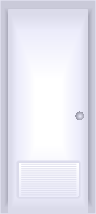
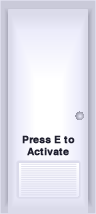
Added levels 4 and 5 (non-tutorial) and more graphics

Changed region(s): [[0.2188, 0.6168, 0.7812, 0.729]]

diff --git a/src/tsa2035/game/content/levels/level1/Level4.java b/src/tsa2035/game/content/levels/level1/Level4.java
@@ -1,0 +1,91 @@
+package tsa2035.game.content.levels.level1;
+
+import java.io.IOException;
+
+import tsa2035.game.content.levels.MainCharacter;
+import tsa2035.game.engine.bounding.Side;
+import tsa2035.game.engine.core.Renderer;
+import tsa2035.game.engine.scene.CollisionCallback;
+import tsa2035.game.engine.scene.InteractionCallback;
+import tsa2035.game.engine.scene.Ladder;
+import tsa2035.game.engine.scene.PolyTexSprite;
+import tsa2035.game.engine.scene.Scene;
+import tsa2035.game.engine.scene.Sprite;
+import tsa2035.game.engine.scene.background.SpriteBackground;
+import tsa2035.game.engine.texture.LoopedAnimatedTexture;
+import tsa2035.game.engine.texture.TextureManager;
+
+public class Level4 extends Scene {
+	
+	public Level4()
+	{
+		try {
+			setBackground(new SpriteBackground(TextureManager.getTextureFromResource("/tsa2035/game/content/images/common/wallpanels.png")));
+			addToScene("character", new MainCharacter(0.28f, -0.5f)).setLayer(10);
+			addToScene("floor", new Sprite(0f, -0.98f, TextureManager.getTextureFromResource("/tsa2035/game/content/images/common/floor.png"))).setSolid(true);
+			addToScene("pipes", new Sprite(0f, 0.89f, TextureManager.getTextureFromResource("/tsa2035/game/content/images/common/pipes.png"))).setSolid(true).setLayer(0);
+			addToScene("vents", new Sprite(0f, 0.7f, TextureManager.getTextureFromResource("/tsa2035/game/content/images/common/vents.png"))).setLayer(-1);
+			addToScene("door", new Sprite(0.75f, -0.58f, TextureManager.getTextureFromResource("/tsa2035/game/content/images/common/door.png"))).setLayer(-2).setInteractable(true);
+
+			addToScene("platform", new Sprite(-0.78f, -0.34f, TextureManager.getTextureFromResource("/tsa2035/game/content/images/common/platform150.png"))).setSolid(true);
+			addToScene("ladder2", new Ladder(-0.69f, -0.64f, TextureManager.getTextureFromResource("/tsa2035/game/content/images/common/ladder_medium.png"), "character", "platform")).setInteractable(true);
+			addToScene("ladder1", new Ladder(-0.87f, -0.13f, TextureManager.getTextureFromResource("/tsa2035/game/content/images/common/ladder_short.png"), "character")).setInteractable(true);
+			addToScene("statuspanel", new Sprite(-0.87f, 0.5f, new LoopedAnimatedTexture("/tsa2035/game/content/images/common", "statuspanel", 2, 2))).setScale(0.5f);
+			addToScene("authorzied", new Sprite(0.75f, -0.1f, TextureManager.getTextureFromResource("/tsa2035/game/content/images/common/authorized.png"))).setScale(0.7f);
+			addToScene("crate1", new Sprite(-0.2f, -0.85f, TextureManager.getTextureFromResource("/tsa2035/game/content/images/common/crate.png"))).setScale(0.5f).setSolid(true).setLayer(5);
+			addToScene("crate2", new Sprite(0f, -0.85f, TextureManager.getTextureFromResource("/tsa2035/game/content/images/common/crate.png"))).setScale(0.5f).setSolid(true).setLayer(5);
+			addToScene("crate3", new Sprite(-0.01f, -0.645f, TextureManager.getTextureFromResource("/tsa2035/game/content/images/common/crate.png"))).setScale(0.5f).setSolid(true).setLayer(5);
+			addToScene("crate4", new Sprite(-0.18f, -0.645f, TextureManager.getTextureFromResource("/tsa2035/game/content/images/common/crate.png"))).setScale(0.5f).setSolid(true).setLayer(5);
+			addToScene("crate5", new Sprite(-0.1f, -0.43f, TextureManager.getTextureFromResource("/tsa2035/game/content/images/common/crate.png"))).setScale(0.5f).setSolid(true).setLayer(5);
+			addToScene("gosign", new Sprite(-0.1f, 0.3f, TextureManager.getTextureFromResource("/tsa2035/game/content/images/common/go.png"))).setScale(0.8f);
+			addToScene("divider", new Sprite(0.45f, 0.1f, TextureManager.getTextureFromResource("/tsa2035/game/content/images/common/divider.png"))).setScale(0.8f);
+
+			
+			final PolyTexSprite gen1box = new PolyTexSprite(-0.2f,-0.4f, "closed", TextureManager.getTextureFromResource("/tsa2035/game/content/images/common/accessdoor_all_closed.png"), false);
+			addToScene("gen1box", gen1box).setScale(0.5f).setInteractable(true);
+			gen1box.addTexture("open", TextureManager.getTextureFromResource("/tsa2035/game/content/images/common/accessdoor_genbank1_open.png"));
+			gen1box.registerInteractionCallback(new InteractionCallback(){
+			@Override
+			public void interactionOccured(Sprite interacter,
+			Sprite interactee) 
+			{
+			gen1box.setTexture("open");}});
+			
+			final PolyTexSprite gen2box = new PolyTexSprite(0.2f,-0.4f, "closed", TextureManager.getTextureFromResource("/tsa2035/game/content/images/common/accessdoor_all_closed.png"), false);
+			addToScene("gen2box", gen2box).setScale(0.5f).setInteractable(true);
+			gen2box.addTexture("open", TextureManager.getTextureFromResource("/tsa2035/game/content/images/common/accessdoor_genbank2_open.png"));
+			gen2box.registerInteractionCallback(new InteractionCallback(){
+			@Override
+			public void interactionOccured(Sprite interacter,
+			Sprite interactee) 
+			{
+			gen2box.setTexture("open");}});
+			
+			getObject("door").registerInteractionCallback(new InteractionCallback()
+			{
+
+				@Override
+				public void interactionOccured(Sprite registeredObject,
+						Sprite withObject) {
+					Renderer.animatedSceneSwitch(new Level5());
+					
+				}
+				
+			});
+			
+	//Need to make gate animated when switch turned to on position (files located in game.content.images.gate)
+			addToScene("gate", new Sprite(0.45f, -0.68f, TextureManager.getTextureFromResource("/tsa2035/game/content/images/gate/gate0001.png"))).setSolid(true);
+			
+		} catch (IOException e) {
+			System.out.println("Texture loading failed!");
+			e.printStackTrace();
+		}
+	}
+	
+	@Override
+	public void sceneLogic() {
+		// This function is called every render loop
+		// Note: callbacks are the prefered way to do collision/interaction checking, not polling
+	}
+
+}

diff --git a/src/tsa2035/game/content/levels/level1/Level5.java b/src/tsa2035/game/content/levels/level1/Level5.java
@@ -1,0 +1,74 @@
+package tsa2035.game.content.levels.level1;
+
+import java.io.IOException;
+
+import tsa2035.game.content.levels.MainCharacter;
+import tsa2035.game.engine.bounding.Side;
+import tsa2035.game.engine.core.Renderer;
+import tsa2035.game.engine.scene.CollisionCallback;
+import tsa2035.game.engine.scene.InteractionCallback;
+import tsa2035.game.engine.scene.Ladder;
+import tsa2035.game.engine.scene.PolyTexSprite;
+import tsa2035.game.engine.scene.Scene;
+import tsa2035.game.engine.scene.Sprite;
+import tsa2035.game.engine.scene.background.SpriteBackground;
+import tsa2035.game.engine.texture.LoopedAnimatedTexture;
+import tsa2035.game.engine.texture.TextureManager;
+
+public class Level5 extends Scene {
+	
+	public Level5()
+	{
+		try {
+			setBackground(new SpriteBackground(TextureManager.getTextureFromResource("/tsa2035/game/content/images/common/wallpanels.png")));
+			addToScene("character", new MainCharacter(-0.45f, -0.6f)).setLayer(10);
+			addToScene("floor", new Sprite(0f, -0.98f, TextureManager.getTextureFromResource("/tsa2035/game/content/images/common/floor.png"))).setSolid(true);
+			addToScene("pipes", new Sprite(0f, 0.89f, TextureManager.getTextureFromResource("/tsa2035/game/content/images/common/pipes.png"))).setSolid(true).setLayer(0);
+			addToScene("vents", new Sprite(0f, 0.7f, TextureManager.getTextureFromResource("/tsa2035/game/content/images/common/vents.png"))).setLayer(-1);
+			addToScene("door", new Sprite(0.75f, -0.58f, TextureManager.getTextureFromResource("/tsa2035/game/content/images/common/door.png"))).setLayer(-2).setInteractable(true);
+			
+			addToScene("gosign", new Sprite(-0.1f, -0.5f, TextureManager.getTextureFromResource("/tsa2035/game/content/images/common/go.png"))).setScale(0.8f);
+			addToScene("platform1", new Sprite(-0.64f, 0f, TextureManager.getTextureFromResource("/tsa2035/game/content/images/common/platform250.png"))).setSolid(true);
+			addToScene("ladder1", new Ladder(-0.85f, -0.46f, TextureManager.getTextureFromResource("/tsa2035/game/content/images/common/ladder_long.png"), "character", "platform1")).setInteractable(true);
+			addToScene("ladder3", new Ladder(-0.4f, -0.02f, TextureManager.getTextureFromResource("/tsa2035/game/content/images/common/ladder_short.png"), "character", "platform1")).setInteractable(true);
+			addToScene("platform2", new Sprite(0.01f, -0.23f, TextureManager.getTextureFromResource("/tsa2035/game/content/images/common/platform400.png"))).setSolid(true).setLayer(-10);
+			addToScene("ladder2", new Ladder(0.42f, -0.02f, TextureManager.getTextureFromResource("/tsa2035/game/content/images/common/ladder_short.png"), "character", "platform3")).setInteractable(true);
+			addToScene("platform3", new Sprite(0.725f, 0.15f, TextureManager.getTextureFromResource("/tsa2035/game/content/images/common/platform300.png"))).setSolid(true).setLayer(-10);
+
+			final PolyTexSprite switchbox = new PolyTexSprite(0.93f, 0.4f, "off", TextureManager.getTextureFromResource("/tsa2035/game/content/images/common/switch_off.png"), false);
+			addToScene("switch", switchbox).setScale(0.5f).setInteractable(true);
+			switchbox.addTexture("on", TextureManager.getTextureFromResource("/tsa2035/game/content/images/common/switch_on.png"));
+			switchbox.registerInteractionCallback(new InteractionCallback(){
+			@Override
+			public void interactionOccured(Sprite interacter,
+			Sprite interactee) 
+			{
+			switchbox.setTexture("on");}});
+			
+			addToScene("gate", new Sprite(0.3f, -0.68f, TextureManager.getTextureFromResource("/tsa2035/game/content/images/gate/gate0001.png"))).setSolid(true);
+			
+			getObject("door").registerInteractionCallback(new InteractionCallback()
+			{
+
+				@Override
+				public void interactionOccured(Sprite registeredObject,
+						Sprite withObject) {
+					Renderer.animatedSceneSwitch(new Level6());
+					
+				}
+				
+			});
+			
+		} catch (IOException e) {
+			System.out.println("Texture loading failed!");
+			e.printStackTrace();
+		}
+	}
+	
+	@Override
+	public void sceneLogic() {
+		// This function is called every render loop
+		// Note: callbacks are the prefered way to do collision/interaction checking, not polling
+	}
+
+}

diff --git a/src/tsa2035/game/content/levels/level1/Level6.java b/src/tsa2035/game/content/levels/level1/Level6.java
@@ -1,0 +1,68 @@
+package tsa2035.game.content.levels.level1;
+
+import java.io.IOException;
+
+import tsa2035.game.content.levels.MainCharacter;
+import tsa2035.game.engine.bounding.Side;
+import tsa2035.game.engine.core.Renderer;
+import tsa2035.game.engine.scene.CollisionCallback;
+import tsa2035.game.engine.scene.InteractionCallback;
+import tsa2035.game.engine.scene.Ladder;
+import tsa2035.game.engine.scene.PolyTexSprite;
+import tsa2035.game.engine.scene.Scene;
+import tsa2035.game.engine.scene.Sprite;
+import tsa2035.game.engine.scene.background.SpriteBackground;
+import tsa2035.game.engine.texture.LoopedAnimatedTexture;
+import tsa2035.game.engine.texture.TextureManager;
+
+public class Level6 extends Scene {
+	
+	public Level6()
+	{
+		try {
+			setBackground(new SpriteBackground(TextureManager.getTextureFromResource("/tsa2035/game/content/images/common/wallpanels.png")));
+			addToScene("character", new MainCharacter(-0.45f, -0.6f)).setLayer(10);
+			addToScene("floor", new Sprite(0f, -0.98f, TextureManager.getTextureFromResource("/tsa2035/game/content/images/common/floor.png"))).setSolid(true);
+			addToScene("pipes", new Sprite(0f, 0.89f, TextureManager.getTextureFromResource("/tsa2035/game/content/images/common/pipes.png"))).setSolid(true).setLayer(0);
+			addToScene("vents", new Sprite(0f, 0.7f, TextureManager.getTextureFromResource("/tsa2035/game/content/images/common/vents.png"))).setLayer(-1);
+			addToScene("door", new Sprite(0.75f, -0.58f, TextureManager.getTextureFromResource("/tsa2035/game/content/images/common/door.png"))).setLayer(-2).setInteractable(true);
+			
+			
+
+			final PolyTexSprite switchbox = new PolyTexSprite(0.93f, 0.4f, "off", TextureManager.getTextureFromResource("/tsa2035/game/content/images/common/switch_off.png"), false);
+			addToScene("switch", switchbox).setScale(0.5f).setInteractable(true);
+			switchbox.addTexture("on", TextureManager.getTextureFromResource("/tsa2035/game/content/images/common/switch_on.png"));
+			switchbox.registerInteractionCallback(new InteractionCallback(){
+			@Override
+			public void interactionOccured(Sprite interacter,
+			Sprite interactee) 
+			{
+			switchbox.setTexture("on");}});
+			
+			addToScene("gate", new Sprite(0.3f, -0.68f, TextureManager.getTextureFromResource("/tsa2035/game/content/images/gate/gate0001.png"))).setSolid(true);
+			
+			getObject("door").registerInteractionCallback(new InteractionCallback()
+			{
+
+				@Override
+				public void interactionOccured(Sprite registeredObject,
+						Sprite withObject) {
+					Renderer.animatedSceneSwitch(new Level6());
+					
+				}
+				
+			});
+			
+		} catch (IOException e) {
+			System.out.println("Texture loading failed!");
+			e.printStackTrace();
+		}
+	}
+	
+	@Override
+	public void sceneLogic() {
+		// This function is called every render loop
+		// Note: callbacks are the prefered way to do collision/interaction checking, not polling
+	}
+
+}

diff --git a/src/tsa2035/game/content/levels/level1/Level2.java b/src/tsa2035/game/content/levels/level1/Level2.java
@@ -37,9 +37,9 @@ public class Level2 extends Scene {
 			addToScene("crate9", new Sprite(-0.3f, -0.645f, TextureManager.getTextureFromResource("/tsa2035/game/content/images/common/crate.png"))).setScale(0.5f).setSolid(true);
 			addToScene("crate9", new Sprite(-0.5f, -0.645f, TextureManager.getTextureFromResource("/tsa2035/game/content/images/common/crate.png"))).setScale(0.5f).setSolid(true);
 			addToScene("crate10", new Sprite(0f, -0.43f, TextureManager.getTextureFromResource("/tsa2035/game/content/images/common/crate.png"))).setScale(0.5f).setSolid(true);
-			addToScene("crate11", new Sprite(-0.2f, -0.43f, TextureManager.getTextureFromResource("/tsa2035/game/content/images/common/crate.png"))).setScale(0.5f).setSolid(true);
+			//addToScene("crate11", new Sprite(-0.2f, -0.43f, TextureManager.getTextureFromResource("/tsa2035/game/content/images/common/crate.png"))).setScale(0.5f).setSolid(true);
 			addToScene("crate12", new Sprite(-0.4f, -0.43f, TextureManager.getTextureFromResource("/tsa2035/game/content/images/common/crate.png"))).setScale(0.5f).setSolid(true);
-			addToScene("crate13", new Sprite(-0.38f, -0.22f, TextureManager.getTextureFromResource("/tsa2035/game/content/images/common/crate.png"))).setScale(0.5f).setSolid(true);
+			addToScene("crate13", new Sprite(-0.39f, -0.22f, TextureManager.getTextureFromResource("/tsa2035/game/content/images/common/crate.png"))).setScale(0.5f).setSolid(true);
 			addToScene("crate14", new Sprite(0.15f, -0.22f, TextureManager.getTextureFromResource("/tsa2035/game/content/images/common/crate.png"))).setScale(0.5f).setSolid(true);
 			addToScene("crate15", new Sprite(0.3f, -0.645f, TextureManager.getTextureFromResource("/tsa2035/game/content/images/common/crate.png"))).setScale(0.5f).setSolid(true);
 			addToScene("crate16", new Sprite(0.2f, -0.43f, TextureManager.getTextureFromResource("/tsa2035/game/content/images/common/crate.png"))).setScale(0.5f).setSolid(true);

diff --git a/src/tsa2035/game/content/levels/level1/DemoLevel.java b/src/tsa2035/game/content/levels/level1/DemoLevel.java
@@ -20,7 +20,7 @@ public class DemoLevel extends Scene {
 			setBackground(new SpriteBackground(TextureManager.getTextureFromResource("/tsa2035/game/content/images/common/wallpanels.png")));
 			addToScene("character", new MainCharacter(-0.7f, 0.15f)).setLayer(10);
 			addToScene("floor", new Sprite(0f, -0.98f, TextureManager.getTextureFromResource("/tsa2035/game/content/images/common/floor.png"))).setSolid(true);
-			addToScene("ladder1", new Ladder(-0.55f, -0.64f, TextureManager.getTextureFromResource("/tsa2035/game/content/images/common/ladder_short.png"), "character", "platform1")).setInteractable(true);
+			addToScene("ladder1", new Ladder(-0.55f, -0.64f, TextureManager.getTextureFromResource("/tsa2035/game/content/images/common/ladder_medium.png"), "character", "platform1")).setInteractable(true);
 			addToScene("ladder2", new Ladder(0.45f, -0.46f, TextureManager.getTextureFromResource("/tsa2035/game/content/images/common/ladder_long.png"), "character", "platform2")).setInteractable(true);
 			addToScene("pipes", new Sprite(0f, 0.89f, TextureManager.getTextureFromResource("/tsa2035/game/content/images/common/pipes.png"))).setSolid(true).setLayer(0);
 			addToScene("vents", new Sprite(0f, 0.7f, TextureManager.getTextureFromResource("/tsa2035/game/content/images/common/vents.png"))).setSolid(true).setLayer(-1);
@@ -40,7 +40,6 @@ public class DemoLevel extends Scene {
 			{
 			box.setTexture("open");}});
 
-			
 			final PolyTexSprite main = new PolyTexSprite(-0.15f,-0.4f, "closed", TextureManager.getTextureFromResource("/tsa2035/game/content/images/common/accessdoor_all_closed.png"), false);
 			addToScene("auxbox", main).setScale(0.5f).setInteractable(true);
 			main.addTexture("open", TextureManager.getTextureFromResource("/tsa2035/game/content/images/common/accessdoor_mainpwr_open.png"));

diff --git a/src/tsa2035/game/content/levels/level1/Level1.java b/src/tsa2035/game/content/levels/level1/Level1.java
@@ -29,7 +29,8 @@ public class Level1 extends Scene {
 			addToScene("ladder", new Ladder(0.45f, -0.46f, TextureManager.getTextureFromResource("/tsa2035/game/content/images/common/ladder_long.png"), "character", "platform")).setInteractable(true);
 			addToScene("platform", new Sprite(0.6f, 0f, TextureManager.getTextureFromResource("/tsa2035/game/content/images/common/platform200.png"))).setSolid(true);
 			addToScene("steps", new Sprite(-0.5f, -0.62f, TextureManager.getTextureFromResource("/tsa2035/game/content/images/common/steps.png"))).setScale(0.8f);
-			addToScene("gosign", new Sprite(-0.1f, -0.3f, TextureManager.getTextureFromResource("/tsa2035/game/content/images/common/go.png"))).setScale(0.8f);
+			addToScene("gosign", new Sprite(0.1f, -0.3f, TextureManager.getTextureFromResource("/tsa2035/game/content/images/common/go.png"))).setScale(0.8f);
+			addToScene("crate", new Sprite(0.8f, -0.85f, TextureManager.getTextureFromResource("/tsa2035/game/content/images/common/crate.png"))).setScale(0.5f).setSolid(true);
 			addToScene("door", new Sprite(0.65f, 0.368f, TextureManager.getTextureFromResource("/tsa2035/game/content/images/common/door.png"))).setInteractable(true);
 			getObject("door").registerInteractionCallback(new InteractionCallback()
 			{

diff --git a/src/tsa2035/game/content/levels/level1/Level3.java b/src/tsa2035/game/content/levels/level1/Level3.java
@@ -28,7 +28,8 @@ public class Level3 extends Scene {
 			addToScene("door", new Sprite(0.75f, -0.58f, TextureManager.getTextureFromResource("/tsa2035/game/content/images/common/door.png"))).setLayer(-2).setInteractable(true);
 			addToScene("noentry", new Sprite(0.75f, -0.1f, TextureManager.getTextureFromResource("/tsa2035/game/content/images/common/noentry.png"))).setScale(0.8f);
 			addToScene("gosign", new Sprite(-0.559f, 0f, TextureManager.getTextureFromResource("/tsa2035/game/content/images/common/go.png"))).setScale(0.8f);
-
+			
+			addToScene("crate", new Sprite(0.32f, -0.85f, TextureManager.getTextureFromResource("/tsa2035/game/content/images/common/crate.png"))).setScale(0.5f).setSolid(true);
 			
 			getObject("door").registerInteractionCallback(new InteractionCallback()
 			{
@@ -36,7 +37,7 @@ public class Level3 extends Scene {
 				@Override
 				public void interactionOccured(Sprite registeredObject,
 						Sprite withObject) {
-					Renderer.animatedSceneSwitch(new Level3());
+					Renderer.animatedSceneSwitch(new Level4());
 					
 				}
 				

diff --git a/src/tsa2035/game/content/core/Game.java b/src/tsa2035/game/content/core/Game.java
@@ -3,7 +3,7 @@ package tsa2035.game.content.core;
 import org.lwjgl.LWJGLException;
 
 import tsa2035.game.content.levels.level1.DemoLevel;
-import tsa2035.game.content.levels.level1.Level1;
+import tsa2035.game.content.levels.level1.Level6;
 import tsa2035.game.engine.core.Renderer;
 
 public class Game {
@@ -14,7 +14,7 @@ public class Game {
 	 */
 	public static void main(String[] args) throws LWJGLException {
 		Renderer.init(800, 600);
-		Renderer.renderLoop(new Level1());
+		Renderer.renderLoop(new Level6());
 	}
 
 }
